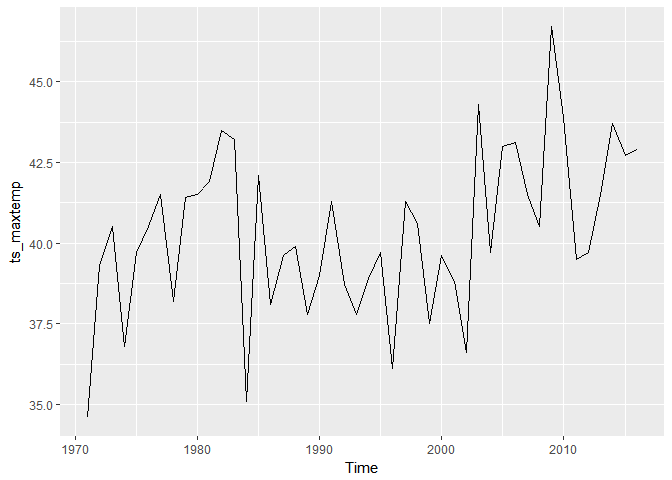
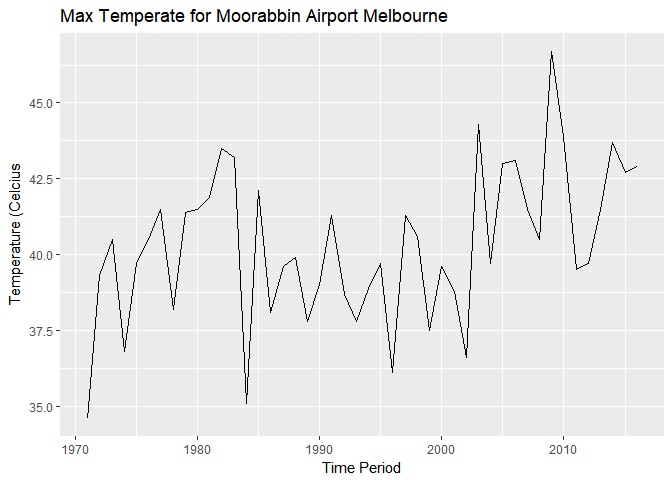
Update for code segments

diff --git a/TimeSeries_6306_11/TimeSeries_6306_11.html b/TimeSeries_6306_11/TimeSeries_6306_11.html
@@ -132,8 +132,13 @@ $(document).ready(function () {
 </div>
 
 
+<div id="summary" class="section level1">
+<h1>Summary</h1>
+<p>The following shows fun with Time Series and Prediction using exponention smoothing forecasts (SES and HW), ploting with regular plots as well as dygraphs</p>
+<p>GITHub Repository: <a href="https://github.com/LuayD/SMU-MSDS/tree/master/TimeSeries_6306_11" class="uri">https://github.com/LuayD/SMU-MSDS/tree/master/TimeSeries_6306_11</a></p>
 <div id="analysis-1-warm-up-bried-financial-data-from-eu-stock-markets" class="section level2">
 <h2>Analysis 1: Warm-up Bried Financial Data from EU Stock Markets</h2>
+<p>This part takes the built in Eu Stock Markets Data Set and isolates the DAX listings, plotting observed and decomposing using decompose to show seasonal, trend, and random trends of the data.</p>
 <pre class="r"><code>## Part 1a. Pull data from EU Stock Markets 1991 - 1998
 
 # Take just the &quot;DAX&quot; data from the data
@@ -161,14 +166,16 @@ abline(v=1997, col=&quot;red&quot;, lwd = 2)</code></pre>
 </div>
 <div id="analysis-2-temperature-data-predicitons-for-moorabbin-airport-melbourne" class="section level2">
 <h2>Analysis 2: Temperature Data Predicitons for Moorabbin Airport Melbourne</h2>
+<p>This part uses Exponential smoothing forecasts SES and HW to predict Airport temperatures for subsequent 5 years and plots.</p>
 <pre class="r"><code>## Part 2a. Pull data from fpp2 lib and plot
 
 # assign to local var to visually explore
 ts_maxtemp &lt;- maxtemp
 
 # Autoplot maxtemp data using example as per help page
-autoplot(ts_maxtemp)</code></pre>
[1 lines of base64/hex data omitted]
+autoplot(ts_maxtemp, main = &quot;Max Temperate for Moorabbin Airport Melbourne&quot;,
+         xlab = &quot;Time Period&quot;, ylab = &quot;Temperature (Celcius&quot;)</code></pre>
[1 lines of base64/hex data omitted]
 <pre class="r"><code>## Part 2b. subset data after year 1990
 ts_maxtemp_1990 &lt;- window(ts_maxtemp, start = 1990)
 
@@ -192,9 +199,6 @@ lines(fitted(lst_maxtemp_ses_1990_2021), col = &quot;blue&quot;, type = &quot;o&
 # overlay 2016-2021 predictions with points
 lines(lst_maxtemp_ses_1990_2021$mean, col = &quot;blue&quot;, type = 'o')</code></pre>
[1 lines of base64/hex data omitted]
-<pre class="r"><code># SES model AICc
-lst_maxtemp_ses_1990_2021$model$aicc</code></pre>
-<pre><code>## [1] 141.5302</code></pre>
 <pre class="r"><code>## Part 2d. Use Damped Holt's Linear Trend
 lst_maxtemp_holt_1990_2021 &lt;- holt(ts_maxtemp_1990, h = 5, damped = TRUE)
 
@@ -212,12 +216,17 @@ lines(fitted(lst_maxtemp_holt_1990_2021), col = &quot;blue&quot;, type = 'o')
 # overlay 2016-2021 predictions with points
 lines(lst_maxtemp_holt_1990_2021$mean, col = &quot;blue&quot;, type = 'o')</code></pre>
[1 lines of base64/hex data omitted]
-<pre class="r"><code># SES model AICc
-lst_maxtemp_holt_1990_2021$model$aicc</code></pre>
-<pre><code>## [1] 144.5819</code></pre>
+<pre class="r"><code># AICc comparion for models
+cat(&quot;AICs for SES model&quot;, lst_maxtemp_ses_1990_2021$model$aicc, &quot;\n&quot;)</code></pre>
+<pre><code>## AICs for SES model 141.5302</code></pre>
+<pre class="r"><code>cat(&quot;AICs for HW model&quot;, lst_maxtemp_holt_1990_2021$model$aicc, &quot;\n&quot;)</code></pre>
+<pre><code>## AICs for HW model 144.5819</code></pre>
+<pre class="r"><code>cat(&quot;The SES model has the lower AICc&quot;, &quot;\n&quot;)</code></pre>
+<pre><code>## The SES model has the lower AICc</code></pre>
 </div>
 <div id="analysis-3-wands-that-choose-the-wizard" class="section level2">
 <h2>Analysis 3: Wands that choose the wizard</h2>
+<p>This part reads in Harry Potter based Wand makers and shows output per year using an interactive dygraph with output show in the period where “He who should not be named” was active.</p>
 <pre class="r"><code>## Part 3a.Read in both datasets, files do not have headers
 dfm_ollivander &lt;- read.csv(&quot;data/Unit11TimeSeries_Ollivander.csv&quot;, header = FALSE, stringsAsFactors = FALSE)
 dfm_gregorovitch &lt;- read.csv(&quot;data/Unit11TimeSeries_gregorovitch.csv&quot;, header = FALSE, stringsAsFactors = FALSE)
@@ -241,20 +250,24 @@ ts_combined &lt;- xts(dfm_combined[c(&quot;ollivander&quot;,&quot;gregorovitch&q
 
 
 # plot the dygrpah
-dygraph(ts_combined, main=&quot;Birth rates&quot;, ylab=&quot;Wands Sold per Wand Maker&quot;, xlab=&quot;Year&quot;) %&gt;% 
+dygraph(ts_combined, main=&quot;Wands Sold per Wand Maker&quot;, ylab=&quot;Wands Sold&quot;, 
+        xlab=&quot;Year (Shaded Area When He who should not be named active)&quot;) %&gt;% 
   dySeries(&quot;ollivander&quot;, label = &quot;Ollivander&quot;, color = &quot;green&quot;) %&gt;%
   dySeries(&quot;gregorovitch&quot;, label = &quot;Gregorovitch&quot;, color = &quot;red&quot;) %&gt;%
   dyOptions(stackedGraph = TRUE) %&gt;%
   dyRangeSelector(height=30) %&gt;%
   dyHighlight(highlightSeriesOpts = list(strokeWidth = 3)) %&gt;%
   dyShading(from = &quot;1995-1-1&quot;, to = &quot;1999-1-1&quot;, color = &quot;#55CCDD&quot;)</code></pre>
-<div id="htmlwidget-36209c309727781b8522" style="width:672px;height:480px;" class="dygraphs html-widget"></div>
-<script type="application/json" data-for="htmlwidget-36209c309727781b8522">{"x":{"attrs":{"title":"Birth rates","xlabel":"Year","ylabel":"Wands Sold per Wand Maker","labels":["year","Ollivander","Gregorovitch"],"legend":"auto","retainDateWindow":false,"axes":{"x":{"pixelsPerLabel":60,"drawAxis":true},"y":{"drawAxis":true}},"series":{"Ollivander":{"axis":"y"},"Gregorovitch":{"axis":"y"}},"colors":["green","red"],"stackedGraph":true,"fillGraph":false,"fillAlpha":0.15,"stepPlot":false,"drawPoints":false,"pointSize":1,"drawGapEdgePoints":false,"connectSeparatedPoints":false,"strokeWidth":1,"strokeBorderColor":"white","colorValue":0.5,"colorSaturation":1,"includeZero":false,"drawAxesAtZero":false,"logscale":false,"axisTickSize":3,"axisLineColor":"black","axisLineWidth":0.3,"axisLabelColor":"black","axisLabelFontSize":14,"axisLabelWidth":60,"drawGrid":true,"gridLineWidth":0.3,"rightGap":5,"digitsAfterDecimal":2,"labelsKMB":false,"labelsKMG2":false,"labelsUTC":false,"maxNumberWidth":6,"animatedZooms":false,"mobileDisableYTouch":true,"showRangeSelector":true,"rangeSelectorHeight":30,"rangeSelectorPlotFillColor":" #A7B1C4","rangeSelectorPlotStrokeColor":"#808FAB","interactionModel":"Dygraph.Interaction.defaultModel","highlightCircleSize":3,"highlightSeriesBackgroundAlpha":0.5,"highlightSeriesOpts":{"strokeWidth":3},"hideOverlayOnMouseOut":true},"scale":"yearly","annotations":[],"shadings":[{"from":"1995-01-01T00:00:00.000Z","to":"1999-01-01T00:00:00.000Z","color":"#55CCDD","axis":"x"}],"events":[],"format":"date","data":[["1970-01-01T00:00:00.000Z","1971-01-01T00:00:00.000Z","1972-01-01T00:00:00.000Z","1973-01-01T00:00:00.000Z","1974-01-01T00:00:00.000Z","1975-01-01T00:00:00.000Z","1976-01-01T00:00:00.000Z","1977-01-01T00:00:00.000Z","1978-01-01T00:00:00.000Z","1979-01-01T00:00:00.000Z","1980-01-01T00:00:00.000Z","1981-01-01T00:00:00.000Z","1982-01-01T00:00:00.000Z","1983-01-01T00:00:00.000Z","1984-01-01T00:00:00.000Z","1985-01-01T00:00:00.000Z","1986-01-01T00:00:00.000Z","1987-01-01T00:00:00.000Z","1988-01-01T00:00:00.000Z","1989-01-01T00:00:00.000Z","1990-01-01T00:00:00.000Z","1991-01-01T00:00:00.000Z","1992-01-01T00:00:00.000Z","1993-01-01T00:00:00.000Z","1994-01-01T00:00:00.000Z","1995-01-01T00:00:00.000Z","1996-01-01T00:00:00.000Z","1997-01-01T00:00:00.000Z","1998-01-01T00:00:00.000Z","1999-01-01T00:00:00.000Z","2000-01-01T00:00:00.000Z","2001-01-01T00:00:00.000Z","2002-01-01T00:00:00.000Z","2003-01-01T00:00:00.000Z","2004-01-01T00:00:00.000Z","2005-01-01T00:00:00.000Z","2006-01-01T00:00:00.000Z","2007-01-01T00:00:00.000Z","2008-01-01T00:00:00.000Z","2009-01-01T00:00:00.000Z","2010-01-01T00:00:00.000Z","2011-01-01T00:00:00.000Z","2012-01-01T00:00:00.000Z","2013-01-01T00:00:00.000Z","2014-01-01T00:00:00.000Z","2015-01-01T00:00:00.000Z","2016-01-01T00:00:00.000Z","2017-01-01T00:00:00.000Z"],[1345,1304,1168,1252,1296,1458,1443,1282,1450,1338,1063,1230,1237,1291,1211,1442,1649,1629,1260,1283,1617,1284,1399,1272,1297,1666,1797,1620,450,200,1308,1277,1444,1070,1031,1405,1487,1229,1493,1317,1520,1337,1547,1632,1336,1289,1439,1226],[1268,1295,1349,1298,1493,1432,1431,1291,1247,1403,1188,1555,1512,1552,1023,1190,1197,1120,1119,1319,1692,1452,1494,1346,1519,1580,1623,1863,0,845,858,814,869,864,942,837,838,671,425,634,618,404,758,410,510,103,49,70]],"fixedtz":false,"tzone":"UTC"},"evals":["attrs.interactionModel"],"jsHooks":[]}</script>
+<div id="htmlwidget-786ae6917f3a91594796" style="width:672px;height:480px;" class="dygraphs html-widget"></div>
+<script type="application/json" data-for="htmlwidget-786ae6917f3a91594796">{"x":{"attrs":{"title":"Wands Sold per Wand Maker","xlabel":"Year (Shaded Area When He who should not be named active)","ylabel":"Wands Sold","labels":["year","Ollivander","Gregorovitch"],"legend":"auto","retainDateWindow":false,"axes":{"x":{"pixelsPerLabel":60,"drawAxis":true},"y":{"drawAxis":true}},"series":{"Ollivander":{"axis":"y"},"Gregorovitch":{"axis":"y"}},"colors":["green","red"],"stackedGraph":true,"fillGraph":false,"fillAlpha":0.15,"stepPlot":false,"drawPoints":false,"pointSize":1,"drawGapEdgePoints":false,"connectSeparatedPoints":false,"strokeWidth":1,"strokeBorderColor":"white","colorValue":0.5,"colorSaturation":1,"includeZero":false,"drawAxesAtZero":false,"logscale":false,"axisTickSize":3,"axisLineColor":"black","axisLineWidth":0.3,"axisLabelColor":"black","axisLabelFontSize":14,"axisLabelWidth":60,"drawGrid":true,"gridLineWidth":0.3,"rightGap":5,"digitsAfterDecimal":2,"labelsKMB":false,"labelsKMG2":false,"labelsUTC":false,"maxNumberWidth":6,"animatedZooms":false,"mobileDisableYTouch":true,"showRangeSelector":true,"rangeSelectorHeight":30,"rangeSelectorPlotFillColor":" #A7B1C4","rangeSelectorPlotStrokeColor":"#808FAB","interactionModel":"Dygraph.Interaction.defaultModel","highlightCircleSize":3,"highlightSeriesBackgroundAlpha":0.5,"highlightSeriesOpts":{"strokeWidth":3},"hideOverlayOnMouseOut":true},"scale":"yearly","annotations":[],"shadings":[{"from":"1995-01-01T00:00:00.000Z","to":"1999-01-01T00:00:00.000Z","color":"#55CCDD","axis":"x"}],"events":[],"format":"date","data":[["1970-01-01T00:00:00.000Z","1971-01-01T00:00:00.000Z","1972-01-01T00:00:00.000Z","1973-01-01T00:00:00.000Z","1974-01-01T00:00:00.000Z","1975-01-01T00:00:00.000Z","1976-01-01T00:00:00.000Z","1977-01-01T00:00:00.000Z","1978-01-01T00:00:00.000Z","1979-01-01T00:00:00.000Z","1980-01-01T00:00:00.000Z","1981-01-01T00:00:00.000Z","1982-01-01T00:00:00.000Z","1983-01-01T00:00:00.000Z","1984-01-01T00:00:00.000Z","1985-01-01T00:00:00.000Z","1986-01-01T00:00:00.000Z","1987-01-01T00:00:00.000Z","1988-01-01T00:00:00.000Z","1989-01-01T00:00:00.000Z","1990-01-01T00:00:00.000Z","1991-01-01T00:00:00.000Z","1992-01-01T00:00:00.000Z","1993-01-01T00:00:00.000Z","1994-01-01T00:00:00.000Z","1995-01-01T00:00:00.000Z","1996-01-01T00:00:00.000Z","1997-01-01T00:00:00.000Z","1998-01-01T00:00:00.000Z","1999-01-01T00:00:00.000Z","2000-01-01T00:00:00.000Z","2001-01-01T00:00:00.000Z","2002-01-01T00:00:00.000Z","2003-01-01T00:00:00.000Z","2004-01-01T00:00:00.000Z","2005-01-01T00:00:00.000Z","2006-01-01T00:00:00.000Z","2007-01-01T00:00:00.000Z","2008-01-01T00:00:00.000Z","2009-01-01T00:00:00.000Z","2010-01-01T00:00:00.000Z","2011-01-01T00:00:00.000Z","2012-01-01T00:00:00.000Z","2013-01-01T00:00:00.000Z","2014-01-01T00:00:00.000Z","2015-01-01T00:00:00.000Z","2016-01-01T00:00:00.000Z","2017-01-01T00:00:00.000Z"],[1345,1304,1168,1252,1296,1458,1443,1282,1450,1338,1063,1230,1237,1291,1211,1442,1649,1629,1260,1283,1617,1284,1399,1272,1297,1666,1797,1620,450,200,1308,1277,1444,1070,1031,1405,1487,1229,1493,1317,1520,1337,1547,1632,1336,1289,1439,1226],[1268,1295,1349,1298,1493,1432,1431,1291,1247,1403,1188,1555,1512,1552,1023,1190,1197,1120,1119,1319,1692,1452,1494,1346,1519,1580,1623,1863,0,845,858,814,869,864,942,837,838,671,425,634,618,404,758,410,510,103,49,70]],"fixedtz":false,"tzone":"UTC"},"evals":["attrs.interactionModel"],"jsHooks":[]}</script>
 </div>
 <div id="references-from-comments-in-the-code" class="section level2">
 <h2>References from comments in the code</h2>
 <div id="dygraphs-for-r-httpsrstudio.github.iodygraphsindex.html" class="section level5">
 <h5>1- dygraphs for R: <a href="https://rstudio.github.io/dygraphs/index.html" class="uri">https://rstudio.github.io/dygraphs/index.html</a></h5>
+</div>
+<div id="check-for-installed-packages-before-running-install.packages-2-down-httpsstackoverflow.comquestions9341635check-for-installed-packages-before-running-install-packages" class="section level5">
+<h5>2- Check for installed packages before running install.packages(), 2 down: <a href="https://stackoverflow.com/questions/9341635/check-for-installed-packages-before-running-install-packages" class="uri">https://stackoverflow.com/questions/9341635/check-for-installed-packages-before-running-install-packages</a></h5>
 </div>
 </div>
 <div id="environment-notes" class="section level2">
@@ -293,6 +306,7 @@ dygraph(ts_combined, main=&quot;Birth rates&quot;, ylab=&quot;Wands Sold per Wan
 ## [31] timeDate_3043.102 colorspace_1.3-2  fracdiff_1.4-2   
 ## [34] labeling_0.3      quadprog_1.5-5    stringi_1.1.7    
 ## [37] lazyeval_0.2.1    munsell_0.4.3</code></pre>
+</div>
 </div>
 
 
